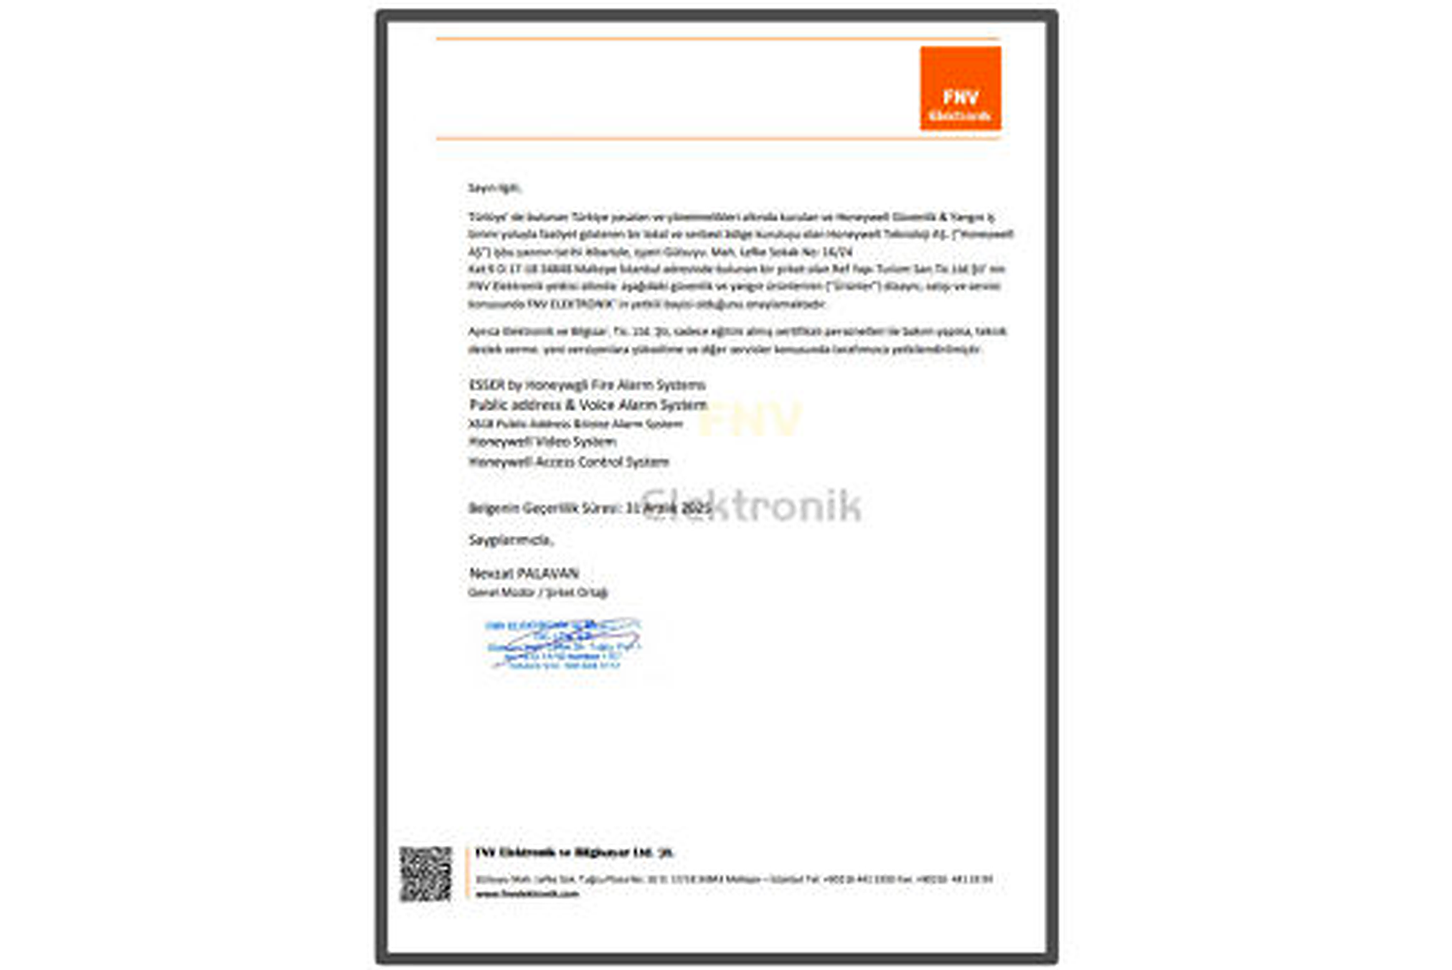
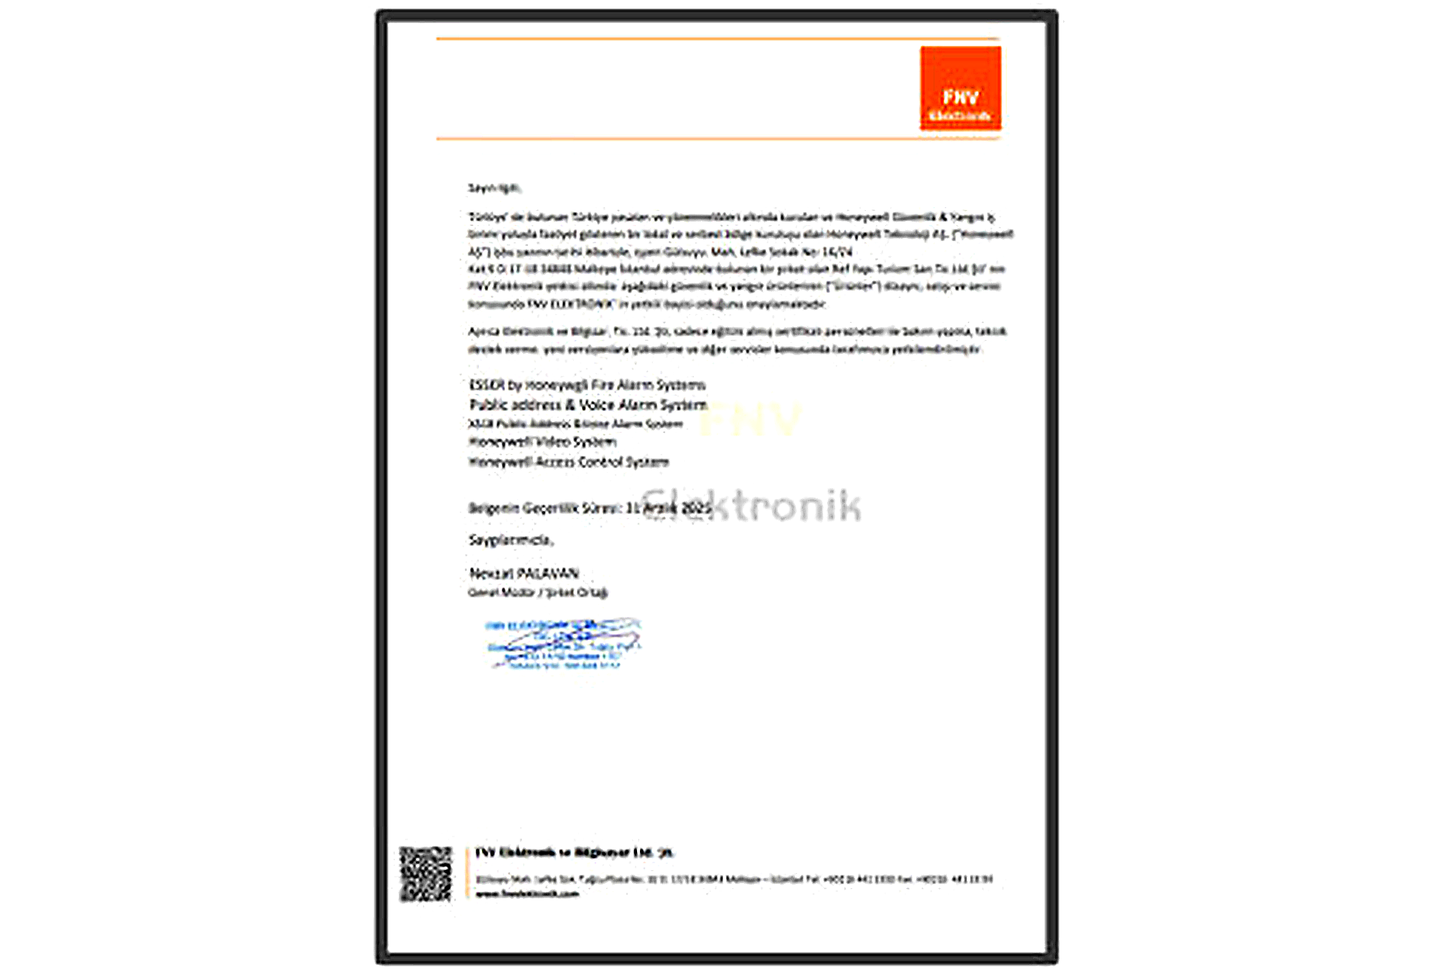
Improve Teknik Kitaplık certificate image clarity.
Sharpen and boost contrast on all certificate scans, use contain-fit thumbnails on a lighter viewer stage, and add stronger zoom controls with cache-busted assets.

Changed region(s): [[0.249, 0.0, 0.747, 1.0], [0.3113, 0.2175, 0.6848, 0.5592], [0.3113, 0.5902, 0.4358, 0.6834]]

diff --git a/documents.html b/documents.html
@@ -10,7 +10,7 @@
   <link rel="preconnect" href="https://fonts.googleapis.com" />
   <link rel="preconnect" href="https://fonts.gstatic.com" crossorigin />
   <link href="https://fonts.googleapis.com/css2?family=Cormorant+Garamond:ital,wght@0,400;0,500;0,600;0,700;1,400;1,600&family=Inter:wght@300;400;500;600;700&display=swap" rel="stylesheet" />
-  <link rel="stylesheet" href="assets/site.css?v=23" />
+  <link rel="stylesheet" href="assets/site.css?v=24" />
 </head>
 <body>
 
@@ -94,7 +94,7 @@
         <button type="button" class="lib-nav-btn lib-nav-prev" aria-label="Previous">
           <svg width="18" height="18" viewBox="0 0 18 18" fill="none"><path d="M11 4L6 9l5 5" stroke="currentColor" stroke-width="1.5" stroke-linecap="round" stroke-linejoin="round"/></svg>
         </button>
-        <img class="lib-viewer-img" src="assets/certificates/cert-01-anadolu-saglik.png" alt="" />
+        <img class="lib-viewer-img" src="assets/certificates/cert-01-anadolu-saglik.png?v=2" alt="" />
         <button type="button" class="lib-nav-btn lib-nav-next" aria-label="Next">
           <svg width="18" height="18" viewBox="0 0 18 18" fill="none"><path d="M7 4l5 5-5 5" stroke="currentColor" stroke-width="1.5" stroke-linecap="round" stroke-linejoin="round"/></svg>
         </button>
@@ -118,128 +118,128 @@
 
     <div class="lib-grid" id="libGrid">
 
-      <article class="lib-card" id="cert-1" data-category="reference" data-src="assets/certificates/cert-01-anadolu-saglik.png">
-        <div class="lib-card-thumb"><img src="assets/certificates/cert-01-anadolu-saglik.png" alt="Anadolu Sağlık Merkezi referans mektubu" loading="lazy" /></div>
+      <article class="lib-card" id="cert-1" data-category="reference" data-src="assets/certificates/cert-01-anadolu-saglik.png?v=2">
+        <div class="lib-card-thumb"><img src="assets/certificates/cert-01-anadolu-saglik.png?v=2" alt="Anadolu Sağlık Merkezi referans mektubu" loading="lazy" /></div>
         <div class="lib-card-body">
           <div class="lib-card-title"><span data-lang="tr">Anadolu Sağlık Merkezi — Referans Mektubu</span><span data-lang="en">Anadolu Medical Center — Reference Letter</span><span data-lang="ru">Anadolu Medical Center — рекомендательное письмо</span></div>
           <div class="lib-card-cat"><span data-lang="tr">Referans · 2008</span><span data-lang="en">Reference · 2008</span><span data-lang="ru">Референция · 2008</span></div>
         </div>
       </article>
 
-      <article class="lib-card" id="cert-2" data-category="authorization" data-src="assets/certificates/cert-02-fnv-yetki-tr.png">
-        <div class="lib-card-thumb"><img src="assets/certificates/cert-02-fnv-yetki-tr.png" alt="FNV Elektronik FNV Elektronik yetkilendirme belgesi" loading="lazy" /></div>
+      <article class="lib-card" id="cert-2" data-category="authorization" data-src="assets/certificates/cert-02-fnv-yetki-tr.png?v=2">
+        <div class="lib-card-thumb"><img src="assets/certificates/cert-02-fnv-yetki-tr.png?v=2" alt="FNV Elektronik FNV Elektronik yetkilendirme belgesi" loading="lazy" /></div>
         <div class="lib-card-body">
           <div class="lib-card-title"><span data-lang="tr">FNV Elektronik — FNV Elektronik Yetkilendirme (TR)</span><span data-lang="en">FNV Elektronik — FNV Elektronik Authorization (TR)</span><span data-lang="ru">FNV Elektronik — авторизация FNV Elektronik (TR)</span></div>
           <div class="lib-card-cat"><span data-lang="tr">Yetkilendirme · Honeywell</span><span data-lang="en">Authorization · Honeywell</span><span data-lang="ru">Авторизация · Honeywell</span></div>
         </div>
       </article>
 
-      <article class="lib-card" id="cert-3" data-category="iso" data-src="assets/certificates/cert-03-iso9001-fnv.png">
-        <div class="lib-card-thumb"><img src="assets/certificates/cert-03-iso9001-fnv.png" alt="ISO 9001:2015 FNV Elektronik sertifikası" loading="lazy" /></div>
+      <article class="lib-card" id="cert-3" data-category="iso" data-src="assets/certificates/cert-03-iso9001-fnv.png?v=2">
+        <div class="lib-card-thumb"><img src="assets/certificates/cert-03-iso9001-fnv.png?v=2" alt="ISO 9001:2015 FNV Elektronik sertifikası" loading="lazy" /></div>
         <div class="lib-card-body">
           <div class="lib-card-title"><span data-lang="tr">ISO 9001:2015 — FNV Elektronik</span><span data-lang="en">ISO 9001:2015 — FNV Elektronik</span><span data-lang="ru">ISO 9001:2015 — FNV Elektronik</span></div>
           <div class="lib-card-cat">ISO 9001</div>
         </div>
       </article>
 
-      <article class="lib-card" id="cert-4" data-category="reference" data-src="assets/certificates/cert-04-anel-referans.png">
-        <div class="lib-card-thumb"><img src="assets/certificates/cert-04-anel-referans.png" alt="Anel Group referans mektubu" loading="lazy" /></div>
+      <article class="lib-card" id="cert-4" data-category="reference" data-src="assets/certificates/cert-04-anel-referans.png?v=2">
+        <div class="lib-card-thumb"><img src="assets/certificates/cert-04-anel-referans.png?v=2" alt="Anel Group referans mektubu" loading="lazy" /></div>
         <div class="lib-card-body">
           <div class="lib-card-title"><span data-lang="tr">Anel Group — Referans Mektubu</span><span data-lang="en">Anel Group — Reference Letter</span><span data-lang="ru">Anel Group — рекомендательное письмо</span></div>
           <div class="lib-card-cat"><span data-lang="tr">Referans · 2020</span><span data-lang="en">Reference · 2020</span><span data-lang="ru">Референция · 2020</span></div>
         </div>
       </article>
 
-      <article class="lib-card" id="cert-5" data-category="certificate" data-src="assets/certificates/cert-05-fnv-marka-tescil.png">
-        <div class="lib-card-thumb"><img src="assets/certificates/cert-05-fnv-marka-tescil.png" alt="FNV Elektronik marka tescil belgesi" loading="lazy" /></div>
+      <article class="lib-card" id="cert-5" data-category="certificate" data-src="assets/certificates/cert-05-fnv-marka-tescil.png?v=2">
+        <div class="lib-card-thumb"><img src="assets/certificates/cert-05-fnv-marka-tescil.png?v=2" alt="FNV Elektronik marka tescil belgesi" loading="lazy" /></div>
         <div class="lib-card-body">
           <div class="lib-card-title"><span data-lang="tr">FNV Elektronik — Marka Tescil Belgesi</span><span data-lang="en">FNV Elektronik — Trademark Certificate</span><span data-lang="ru">FNV Elektronik — свидетельство о товарном знаке</span></div>
           <div class="lib-card-cat"><span data-lang="tr">Marka · 2016</span><span data-lang="en">Trademark · 2016</span><span data-lang="ru">Товарный знак · 2016</span></div>
         </div>
       </article>
 
-      <article class="lib-card" id="cert-6" data-category="reference" data-src="assets/certificates/cert-06-thy-technic.png">
-        <div class="lib-card-thumb"><img src="assets/certificates/cert-06-thy-technic.png" alt="Turkish Technic THY HABOM referans mektubu" loading="lazy" /></div>
+      <article class="lib-card" id="cert-6" data-category="reference" data-src="assets/certificates/cert-06-thy-technic.png?v=2">
+        <div class="lib-card-thumb"><img src="assets/certificates/cert-06-thy-technic.png?v=2" alt="Turkish Technic THY HABOM referans mektubu" loading="lazy" /></div>
         <div class="lib-card-body">
           <div class="lib-card-title"><span data-lang="tr">Turkish Technic — THY HABOM Referans</span><span data-lang="en">Turkish Technic — THY HABOM Reference</span><span data-lang="ru">Turkish Technic — референция THY HABOM</span></div>
           <div class="lib-card-cat"><span data-lang="tr">Referans · 2020</span><span data-lang="en">Reference · 2020</span><span data-lang="ru">Референция · 2020</span></div>
         </div>
       </article>
 
-      <article class="lib-card" id="cert-7" data-category="authorization" data-src="assets/certificates/cert-07-fnv-yetki-en.png">
-        <div class="lib-card-thumb"><img src="assets/certificates/cert-07-fnv-yetki-en.png" alt="FNV Elektronik FNV Elektronik authorization letter" loading="lazy" /></div>
+      <article class="lib-card" id="cert-7" data-category="authorization" data-src="assets/certificates/cert-07-fnv-yetki-en.png?v=2">
+        <div class="lib-card-thumb"><img src="assets/certificates/cert-07-fnv-yetki-en.png?v=2" alt="FNV Elektronik FNV Elektronik authorization letter" loading="lazy" /></div>
         <div class="lib-card-body">
           <div class="lib-card-title"><span data-lang="tr">FNV Elektronik — FNV Elektronik Yetkilendirme (EN)</span><span data-lang="en">FNV Elektronik — FNV Elektronik Authorization (EN)</span><span data-lang="ru">FNV Elektronik — авторизация FNV Elektronik (EN)</span></div>
           <div class="lib-card-cat"><span data-lang="tr">Yetkilendirme · Honeywell</span><span data-lang="en">Authorization · Honeywell</span><span data-lang="ru">Авторизация · Honeywell</span></div>
         </div>
       </article>
 
-      <article class="lib-card" id="cert-8" data-category="authorization" data-src="assets/certificates/cert-08-honeywell-gold.png">
-        <div class="lib-card-thumb"><img src="assets/certificates/cert-08-honeywell-gold.png" alt="Honeywell GOLD Channel Partner sertifikası" loading="lazy" /></div>
+      <article class="lib-card" id="cert-8" data-category="authorization" data-src="assets/certificates/cert-08-honeywell-gold.png?v=2">
+        <div class="lib-card-thumb"><img src="assets/certificates/cert-08-honeywell-gold.png?v=2" alt="Honeywell GOLD Channel Partner sertifikası" loading="lazy" /></div>
         <div class="lib-card-body">
           <div class="lib-card-title"><span data-lang="tr">Honeywell GOLD Channel Partner</span><span data-lang="en">Honeywell GOLD Channel Partner</span><span data-lang="ru">Honeywell GOLD Channel Partner</span></div>
           <div class="lib-card-cat">2018–2019</div>
         </div>
       </article>
 
-      <article class="lib-card" id="cert-9" data-category="reference" data-src="assets/certificates/cert-09-regnum-carya.png">
-        <div class="lib-card-thumb"><img src="assets/certificates/cert-09-regnum-carya.png" alt="Regnum Carya referans mektubu" loading="lazy" /></div>
+      <article class="lib-card" id="cert-9" data-category="reference" data-src="assets/certificates/cert-09-regnum-carya.png?v=2">
+        <div class="lib-card-thumb"><img src="assets/certificates/cert-09-regnum-carya.png?v=2" alt="Regnum Carya referans mektubu" loading="lazy" /></div>
         <div class="lib-card-body">
           <div class="lib-card-title"><span data-lang="tr">Regnum Carya — Referans Mektubu</span><span data-lang="en">Regnum Carya — Reference Letter</span><span data-lang="ru">Regnum Carya — рекомендательное письмо</span></div>
           <div class="lib-card-cat"><span data-lang="tr">Referans</span><span data-lang="en">Reference</span><span data-lang="ru">Референция</span></div>
         </div>
       </article>
 
-      <article class="lib-card" id="cert-10" data-category="reference" data-src="assets/certificates/cert-10-thy-technic-2.png">
-        <div class="lib-card-thumb"><img src="assets/certificates/cert-10-thy-technic-2.png" alt="Turkish Technic referans mektubu" loading="lazy" /></div>
+      <article class="lib-card" id="cert-10" data-category="reference" data-src="assets/certificates/cert-10-thy-technic-2.png?v=2">
+        <div class="lib-card-thumb"><img src="assets/certificates/cert-10-thy-technic-2.png?v=2" alt="Turkish Technic referans mektubu" loading="lazy" /></div>
         <div class="lib-card-body">
           <div class="lib-card-title"><span data-lang="tr">Turkish Technic — Referans Mektubu</span><span data-lang="en">Turkish Technic — Reference Letter</span><span data-lang="ru">Turkish Technic — рекомендательное письмо</span></div>
           <div class="lib-card-cat"><span data-lang="tr">Referans · 2020</span><span data-lang="en">Reference · 2020</span><span data-lang="ru">Референция · 2020</span></div>
         </div>
       </article>
 
-      <article class="lib-card" id="cert-11" data-category="certificate" data-src="assets/certificates/cert-11-sshy-fnv.png">
-        <div class="lib-card-thumb"><img src="assets/certificates/cert-11-sshy-fnv.png" alt="Satış sonrası hizmet yeterlilik belgesi" loading="lazy" /></div>
+      <article class="lib-card" id="cert-11" data-category="certificate" data-src="assets/certificates/cert-11-sshy-fnv.png?v=2">
+        <div class="lib-card-thumb"><img src="assets/certificates/cert-11-sshy-fnv.png?v=2" alt="Satış sonrası hizmet yeterlilik belgesi" loading="lazy" /></div>
         <div class="lib-card-body">
           <div class="lib-card-title"><span data-lang="tr">Satış Sonrası Hizmet Yeterlilik Belgesi</span><span data-lang="en">After-Sales Service Qualification Certificate</span><span data-lang="ru">Сертификат квалификации послепродажного обслуживания</span></div>
           <div class="lib-card-cat"><span data-lang="tr">Ticaret Bakanlığı · 2020</span><span data-lang="en">Ministry of Trade · 2020</span><span data-lang="ru">Минторг · 2020</span></div>
         </div>
       </article>
 
-      <article class="lib-card" id="cert-12" data-category="iso" data-src="assets/certificates/cert-12-iso9001-ref-tr.png">
-        <div class="lib-card-thumb"><img src="assets/certificates/cert-12-iso9001-ref-tr.png" alt="ISO 9001 FNV Elektronik sertifikası Türkçe" loading="lazy" /></div>
+      <article class="lib-card" id="cert-12" data-category="iso" data-src="assets/certificates/cert-12-iso9001-ref-tr.png?v=2">
+        <div class="lib-card-thumb"><img src="assets/certificates/cert-12-iso9001-ref-tr.png?v=2" alt="ISO 9001 FNV Elektronik sertifikası Türkçe" loading="lazy" /></div>
         <div class="lib-card-body">
           <div class="lib-card-title"><span data-lang="tr">ISO 9001:2015 — FNV Elektronik (TR)</span><span data-lang="en">ISO 9001:2015 — FNV Elektronik (TR)</span><span data-lang="ru">ISO 9001:2015 — FNV Elektronik (TR)</span></div>
           <div class="lib-card-cat">ISO 9001</div>
         </div>
       </article>
 
-      <article class="lib-card" id="cert-13" data-category="iso" data-src="assets/certificates/cert-13-iso45001-ref-en.png">
-        <div class="lib-card-thumb"><img src="assets/certificates/cert-13-iso45001-ref-en.png" alt="ISO 45001 FNV Elektronik certificate English" loading="lazy" /></div>
+      <article class="lib-card" id="cert-13" data-category="iso" data-src="assets/certificates/cert-13-iso45001-ref-en.png?v=2">
+        <div class="lib-card-thumb"><img src="assets/certificates/cert-13-iso45001-ref-en.png?v=2" alt="ISO 45001 FNV Elektronik certificate English" loading="lazy" /></div>
         <div class="lib-card-body">
           <div class="lib-card-title"><span data-lang="tr">ISO 45001:2018 — FNV Elektronik (EN)</span><span data-lang="en">ISO 45001:2018 — FNV Elektronik (EN)</span><span data-lang="ru">ISO 45001:2018 — FNV Elektronik (EN)</span></div>
           <div class="lib-card-cat">ISO 45001</div>
         </div>
       </article>
 
-      <article class="lib-card" id="cert-14" data-category="iso" data-src="assets/certificates/cert-14-iso45001-ref-tr.png">
-        <div class="lib-card-thumb"><img src="assets/certificates/cert-14-iso45001-ref-tr.png" alt="ISO 45001 FNV Elektronik sertifikası Türkçe" loading="lazy" /></div>
+      <article class="lib-card" id="cert-14" data-category="iso" data-src="assets/certificates/cert-14-iso45001-ref-tr.png?v=2">
+        <div class="lib-card-thumb"><img src="assets/certificates/cert-14-iso45001-ref-tr.png?v=2" alt="ISO 45001 FNV Elektronik sertifikası Türkçe" loading="lazy" /></div>
         <div class="lib-card-body">
           <div class="lib-card-title"><span data-lang="tr">ISO 45001:2018 — FNV Elektronik (TR)</span><span data-lang="en">ISO 45001:2018 — FNV Elektronik (TR)</span><span data-lang="ru">ISO 45001:2018 — FNV Elektronik (TR)</span></div>
           <div class="lib-card-cat">ISO 45001</div>
         </div>
       </article>
 
-      <article class="lib-card" id="cert-15" data-category="iso" data-src="assets/certificates/cert-15-iso9001-ref-en.png">
-        <div class="lib-card-thumb"><img src="assets/certificates/cert-15-iso9001-ref-en.png" alt="ISO 9001 FNV Elektronik certificate English" loading="lazy" /></div>
+      <article class="lib-card" id="cert-15" data-category="iso" data-src="assets/certificates/cert-15-iso9001-ref-en.png?v=2">
+        <div class="lib-card-thumb"><img src="assets/certificates/cert-15-iso9001-ref-en.png?v=2" alt="ISO 9001 FNV Elektronik certificate English" loading="lazy" /></div>
         <div class="lib-card-body">
           <div class="lib-card-title"><span data-lang="tr">ISO 9001:2015 — FNV Elektronik (EN)</span><span data-lang="en">ISO 9001:2015 — FNV Elektronik (EN)</span><span data-lang="ru">ISO 9001:2015 — FNV Elektronik (EN)</span></div>
           <div class="lib-card-cat">ISO 9001</div>
         </div>
       </article>
 
-      <article class="lib-card" id="cert-16" data-category="certificate" data-src="assets/certificates/cert-16-sshy-2019.png">
-        <div class="lib-card-thumb"><img src="assets/certificates/cert-16-sshy-2019.png" alt="Satış sonrası hizmet yeterlilik belgesi 2019" loading="lazy" /></div>
+      <article class="lib-card" id="cert-16" data-category="certificate" data-src="assets/certificates/cert-16-sshy-2019.png?v=2">
+        <div class="lib-card-thumb"><img src="assets/certificates/cert-16-sshy-2019.png?v=2" alt="Satış sonrası hizmet yeterlilik belgesi 2019" loading="lazy" /></div>
         <div class="lib-card-body">
           <div class="lib-card-title"><span data-lang="tr">Satış Sonrası Hizmet Yeterlilik Belgesi</span><span data-lang="en">After-Sales Service Qualification Certificate</span><span data-lang="ru">Сертификат квалификации послепродажного обслуживания</span></div>
           <div class="lib-card-cat"><span data-lang="tr">Ticaret Bakanlığı · 2019</span><span data-lang="en">Ministry of Trade · 2019</span><span data-lang="ru">Минторг · 2019</span></div>
@@ -298,6 +298,6 @@
 </footer>
 
 <script src="assets/site.js?v=23"></script>
-<script src="assets/lib-viewer.js?v=13"></script>
+<script src="assets/lib-viewer.js?v=14"></script>
 </body>
 </html>

diff --git a/assets/lib-viewer.js b/assets/lib-viewer.js
@@ -16,18 +16,37 @@
   const filterBtns = document.querySelectorAll('.lib-filter');
   const stage = viewer.querySelector('.lib-viewer-stage');
 
+  const ZOOM_MIN = 1;
+  const ZOOM_MAX = 5;
+  const ZOOM_STEP = 0.35;
+
   let index = 0;
   let zoom = 1;
+  let baseZoom = 1;
   let filtered = slides;
 
   function visibleSlides() {
     return filtered.filter(s => !s.hidden);
   }
 
-  function setZoom(z) {
-    zoom = Math.min(3, Math.max(1, z));
+  function applyTransform() {
     img.style.transform = `scale(${zoom})`;
-    if (zoomResetBtn) zoomResetBtn.disabled = zoom === 1;
+    if (zoomResetBtn) zoomResetBtn.disabled = Math.abs(zoom - baseZoom) < 0.01;
+  }
+
+  function setZoom(z, { isBase } = {}) {
+    zoom = Math.min(ZOOM_MAX, Math.max(ZOOM_MIN, z));
+    if (isBase) baseZoom = zoom;
+    applyTransform();
+  }
+
+  function fitToStage() {
+    if (!img.naturalWidth) return;
+    const pad = 48;
+    const maxW = Math.min(stage.clientWidth - pad, 1200);
+    const maxH = Math.min(stage.clientHeight - pad, 700);
+    const fit = Math.min(maxW / img.naturalWidth, maxH / img.naturalHeight, 1);
+    setZoom(Math.max(fit, ZOOM_MIN), { isBase: true });
   }
 
   function show(i) {
@@ -38,11 +57,12 @@
     const src = slide.dataset.src;
     const alt = slide.querySelector('img')?.alt || '';
 
+    img.onload = fitToStage;
     img.src = src;
     img.alt = alt;
+    if (img.complete) fitToStage();
     titleEl.innerHTML = slide.querySelector('.lib-card-title')?.innerHTML || '';
     counterEl.textContent = `${index + 1} / ${list.length}`;
-    setZoom(1);
 
     slides.forEach(s => s.classList.toggle('active', s === slide));
     slide.scrollIntoView({ behavior: 'smooth', block: 'nearest', inline: 'center' });
@@ -72,9 +92,20 @@
   prevBtn.addEventListener('click', () => show(index - 1));
   nextBtn.addEventListener('click', () => show(index + 1));
 
-  if (zoomInBtn) zoomInBtn.addEventListener('click', () => setZoom(zoom + 0.25));
-  if (zoomOutBtn) zoomOutBtn.addEventListener('click', () => setZoom(zoom - 0.25));
-  if (zoomResetBtn) zoomResetBtn.addEventListener('click', () => setZoom(1));
+  if (zoomInBtn) zoomInBtn.addEventListener('click', () => setZoom(zoom + ZOOM_STEP));
+  if (zoomOutBtn) zoomOutBtn.addEventListener('click', () => setZoom(zoom - ZOOM_STEP));
+  if (zoomResetBtn) zoomResetBtn.addEventListener('click', () => setZoom(baseZoom, { isBase: true }));
+
+  img.addEventListener('dblclick', () => {
+    if (zoom > baseZoom + 0.05) setZoom(baseZoom, { isBase: true });
+    else setZoom(Math.min(2.5, ZOOM_MAX));
+  });
+
+  stage.addEventListener('wheel', e => {
+    if (!e.ctrlKey && !e.metaKey) return;
+    e.preventDefault();
+    setZoom(zoom + (e.deltaY < 0 ? ZOOM_STEP : -ZOOM_STEP));
+  }, { passive: false });
 
   if (fullscreenBtn && stage.requestFullscreen) {
     fullscreenBtn.addEventListener('click', () => {
@@ -87,6 +118,9 @@
     if (!viewer.contains(document.activeElement) && document.activeElement?.tagName === 'INPUT') return;
     if (e.key === 'ArrowLeft') { e.preventDefault(); show(index - 1); }
     if (e.key === 'ArrowRight') { e.preventDefault(); show(index + 1); }
+    if (e.key === '+' || e.key === '=') { e.preventDefault(); setZoom(zoom + ZOOM_STEP); }
+    if (e.key === '-') { e.preventDefault(); setZoom(zoom - ZOOM_STEP); }
+    if (e.key === '0') { e.preventDefault(); setZoom(baseZoom, { isBase: true }); }
     if (e.key === 'Escape' && document.fullscreenElement) document.exitFullscreen();
   });
 
@@ -96,6 +130,10 @@
     const dx = e.changedTouches[0].clientX - touchX;
     if (Math.abs(dx) > 50) show(dx > 0 ? index - 1 : index + 1);
   }, { passive: true });
+
+  window.addEventListener('resize', () => {
+    if (img.src) fitToStage();
+  });
 
   const hash = location.hash.replace('#', '');
   const startSlide = hash ? slides.find(s => s.id === hash) : null;

diff --git a/assets/site.css b/assets/site.css
@@ -726,13 +726,16 @@ footer { background: var(--ink); }
 .lib-viewer-counter { font-size: .72rem; font-weight: 600; letter-spacing: .1em; color: var(--ink-3); min-width: 48px; text-align: center; }
 
 .lib-viewer-stage {
-  position: relative; min-height: min(72vh, 680px); background: #1a1712;
-  display: flex; align-items: center; justify-content: center; overflow: auto; padding: 24px;
+  position: relative; min-height: min(78vh, 760px); background: #f5f2ec;
+  display: flex; align-items: center; justify-content: center; overflow: auto; padding: 24px 64px;
 }
 .lib-viewer-img {
-  max-width: 100%; max-height: min(68vh, 640px); width: auto; height: auto;
+  max-width: none; max-height: none; width: auto; height: auto;
+  max-width: min(100%, 1200px); max-height: min(72vh, 700px);
   object-fit: contain; transition: transform .25s var(--ease); cursor: zoom-in;
-  image-rendering: -webkit-optimize-contrast;
+  filter: contrast(1.06) brightness(1.02);
+  image-rendering: auto;
+  box-shadow: 0 4px 24px rgba(24,21,15,.12);
 }
 
 .lib-nav-btn, .lib-tool-btn {
@@ -760,7 +763,7 @@ footer { background: var(--ink); }
 }
 
 .lib-grid {
-  display: grid; grid-template-columns: repeat(auto-fill, minmax(160px, 1fr)); gap: 12px;
+  display: grid; grid-template-columns: repeat(auto-fill, minmax(200px, 1fr)); gap: 14px;
 }
 .lib-card {
   border: 2px solid transparent; background: var(--white); cursor: pointer;
@@ -771,11 +774,13 @@ footer { background: var(--ink); }
 .lib-card.active { border-color: var(--gold); box-shadow: 0 0 0 1px var(--gold); }
 .lib-card[hidden] { display: none; }
 .lib-card-thumb {
-  aspect-ratio: 3/4; background: #eae6df; overflow: hidden;
+  aspect-ratio: 3/4; background: #f0ece4; overflow: hidden;
+  padding: 6px;
 }
 .lib-card-thumb img {
-  width: 100%; height: 100%; object-fit: cover; object-position: top;
-  image-rendering: -webkit-optimize-contrast;
+  width: 100%; height: 100%; object-fit: contain; object-position: center top;
+  filter: contrast(1.08) brightness(1.02);
+  image-rendering: auto;
 }
 .lib-card-body { padding: 12px 14px 14px; }
 .lib-card-title { font-size: .78rem; font-weight: 600; line-height: 1.35; color: var(--ink); }
